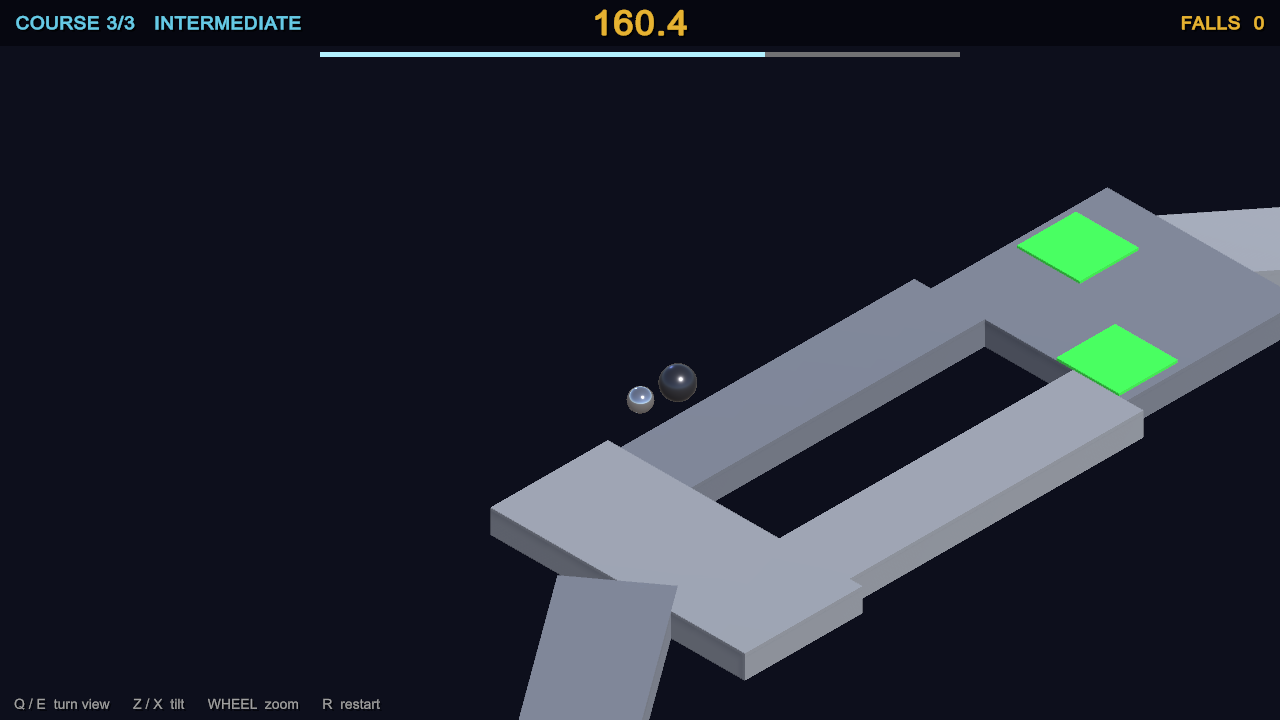
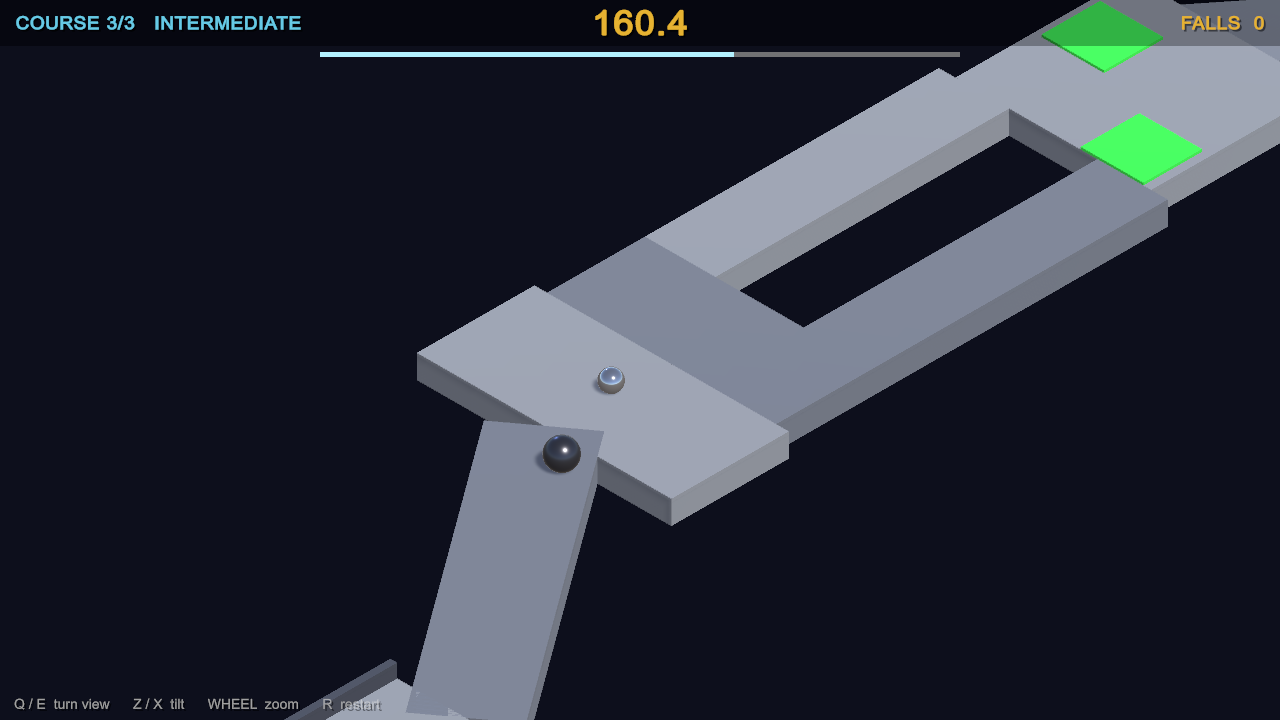
Fix respawn stranding the player over a pit at course splits
A fresh clone failed `make verify` on course 2 with an unrecoverable respawn
loop, on a tree that had already passed the same check twice. Unity's physics is
not frame-rate deterministic, so the fault was marginal rather than absent.

Cause: Split() placed its "drift onto the left catwalk" waypoint relative to the
split's own centre, assuming the preceding deck reached that far across. Where
the approach is a diagonal Jog still moving sideways it does not - on course 2
the waypoint sat 1.5m past the edge, over nothing. Respawn follows the
centreline, so falling there put the marble back into the void.

Two fixes:

- Split() now lays a solid apron ahead of the pit, so the sideways move onto a
  catwalk is over deck by construction rather than by luck.
- LevelBuilder no longer trusts the centreline: it tests every densified
  waypoint against the block geometry and records whether deck exists beneath
  it. Respawn uses supported waypoints only, so waypoints spanning a Jump() gap
  stay available for steering without becoming respawn points.

Verified 4/4 consecutive passes, 1-2 falls per run (previously 2-4).
Docs and screenshots updated for the new split geometry.

diff --git a/Assets/Scripts/LevelBuilder.cs b/Assets/Scripts/LevelBuilder.cs
@@ -12,6 +12,8 @@ namespace RollingSteel
         public float KillY;
         public readonly List<EnemyBall> Enemies = new List<EnemyBall>();
         public readonly List<Vector3> PathWorld = new List<Vector3>();
+        /// Parallel to PathWorld: is there solid deck under this point?
+        public readonly List<bool> PathSupported = new List<bool>();
     }
 
     public static class LevelBuilder
@@ -75,6 +77,7 @@ namespace RollingSteel
             // Densify the centreline: with only segment endpoints, anything
             // following it cuts corners and clips the edge of narrow decks.
             var pts = lvl.Path;
+            var dense = new List<Vector3>();
             for (int i = 0; i < pts.Count; i++)
             {
                 if (i > 0)
@@ -82,10 +85,16 @@ namespace RollingSteel
                     Vector3 a = pts[i - 1], b = pts[i];
                     int steps = Mathf.Max(1, Mathf.CeilToInt(Vector3.Distance(a, b) / 2f));
                     for (int k = 1; k < steps; k++)
-                        built.PathWorld.Add(root.transform.TransformPoint(
-                            Vector3.Lerp(a, b, (float)k / steps) + Vector3.up * 0.5f));
+                        dense.Add(Vector3.Lerp(a, b, (float)k / steps));
                 }
-                built.PathWorld.Add(root.transform.TransformPoint(pts[i] + Vector3.up * 0.5f));
+                dense.Add(pts[i]);
+            }
+
+            foreach (var p in dense)
+            {
+                Vector3 lifted = p + Vector3.up * 0.5f;
+                built.PathWorld.Add(root.transform.TransformPoint(lifted));
+                built.PathSupported.Add(HasDeckUnder(lvl, lifted));
             }
 
             built.SpawnWorld = root.transform.TransformPoint(lvl.Spawn);
@@ -93,6 +102,26 @@ namespace RollingSteel
             built.GoalZ = goalZ;
             built.KillY = lowest - 14f;
             return built;
+        }
+
+        /// Is there solid deck directly under this centreline point? Waypoints
+        /// spanning a jump gap legitimately are not, which is why respawn only
+        /// ever uses supported ones - landing a respawn in mid-air over the thing
+        /// that just killed you is an unwinnable loop.
+        static bool HasDeckUnder(Level lvl, Vector3 p)
+        {
+            foreach (var b in lvl.Blocks)
+            {
+                if (b.Surface == Surface.Acid || b.Surface == Surface.Rail) continue;
+
+                Vector3 local = Quaternion.Inverse(b.Rot) * (p - b.Center);
+                if (Mathf.Abs(local.x) > b.Size.x * 0.5f) continue;
+                if (Mathf.Abs(local.z) > b.Size.z * 0.5f) continue;
+
+                float top = b.Size.y * 0.5f;
+                if (local.y > top - 0.4f && local.y < top + 1.8f) return true;
+            }
+            return false;
         }
 
         static void AddGoalTrigger(Transform root, Block deck)

diff --git a/Assets/Scripts/Course.cs b/Assets/Scripts/Course.cs
@@ -154,25 +154,32 @@ namespace RollingSteel
         }
 
         /// Two parallel decks with a pit down the middle.
-        public CourseBuilder Split(float len, float sideWidth, float gapWidth)
+        ///
+        /// Lays a solid apron first. The route has to move sideways onto one of
+        /// the catwalks, and that move has to happen over deck. If the preceding
+        /// segment is a diagonal jog it may not reach that far across, which puts
+        /// the centreline - and therefore respawns - out over the void.
+        public CourseBuilder Split(float len, float sideWidth, float gapWidth, float apron = 5f)
         {
+            float full = gapWidth + 2f * sideWidth;
+            Pad(apron, full);
+
             float off = (gapWidth + sideWidth) * 0.5f;
             Vector3 a = cur, b = cur + new Vector3(0f, 0f, len);
             Slab(a + Vector3.left * off, b + Vector3.left * off, sideWidth, Surface.Normal);
             Slab(a + Vector3.right * off, b + Vector3.right * off, sideWidth, Surface.Normal);
 
             cur = b;
-            width = gapWidth + 2f * sideWidth;
-            lastA = a; lastB = b; lastW = width; lastRot = Quaternion.identity;
-            // Commit to the left deck *before* the pit opens up - stepping sideways
-            // at the split entry gives the marble no room to drift across.
-            // Drop the previous segment's centre point first: it sits at the split
-            // entry, which is directly over the pit.
+            width = full;
+            lastA = a; lastB = b; lastW = full; lastRot = Quaternion.identity;
+
+            // The apron's own centre point sits at the pit mouth. Replace it with a
+            // drift across the apron, then a run down the left catwalk.
             int last = Level.Path.Count - 1;
             if (last >= 0 && Mathf.Abs(Level.Path[last].z - a.z) < 0.001f)
                 Level.Path.RemoveAt(last);
 
-            InsertPath(new Vector3(a.x - off, a.y, a.z - 4.5f));
+            InsertPath(new Vector3(a.x - off, a.y, a.z - apron * 0.55f));
             InsertPath(a + Vector3.left * off);
             InsertPath(b + Vector3.left * off);
             return this;

diff --git a/Assets/Scripts/GameDirector.cs b/Assets/Scripts/GameDirector.cs
@@ -371,15 +371,21 @@ namespace RollingSteel
             if (path == null || path.Count == 0) return built?.SpawnWorld ?? Vector3.zero;
 
             Vector3 anchor = Marble.LastGrounded;
-            int best = 0;
+            int best = -1;
             float bestD = float.MaxValue;
             for (int i = 0; i < path.Count; i++)
             {
+                if (!built.PathSupported[i]) continue;   // never respawn out over a gap
                 float d = (path[i] - anchor).sqrMagnitude;
                 if (d < bestD) { bestD = d; best = i; }
             }
+            if (best < 0) return built.SpawnWorld;
 
-            return path[Mathf.Max(0, best - 1)] + Vector3.up * 0.4f;
+            // step back one supported waypoint so there is a little run-up
+            for (int i = best - 1; i >= 0; i--)
+                if (built.PathSupported[i]) { best = i; break; }
+
+            return path[best] + Vector3.up * 0.4f;
         }
 
         public void ReachGoal()

diff --git a/docs/VERIFICATION.md b/docs/VERIFICATION.md
@@ -23,6 +23,15 @@ PASS - all three courses cleared
 
 It exits non-zero if the run never reaches `Won`, so it works as a CI gate.
 
+**Run it more than once.** Unity's physics is not frame-rate deterministic, so a
+marginal course can pass one run and fail the next. A bug that only showed up on
+a fresh clone (below) had already passed twice on an identical tree. Treat a
+single green run as weak evidence; four in a row is reasonable.
+
+```bash
+for i in 1 2 3 4; do make verify || break; done
+```
+
 ## Player flags
 
 | Flag | Effect |
@@ -83,7 +92,7 @@ points straight at the offending metre of level geometry.
 
 ## What this actually caught
 
-Four real bugs, none of which produced a compile error or a visual glitch:
+Five real bugs, none of which produced a compile error or a visual glitch:
 
 **1. Two unjumpable gaps.** Both course 2 and course 3 opened a gap straight off
 a downhill ramp. The marble left the lip already moving downward and fell short
@@ -102,13 +111,34 @@ killed it*, so it dies again, respawns identically, and burns the whole clock at
 one spot. The giveaway was deaths alternating between two fixed coordinates.
 Respawn now snaps to the recorded course centreline, which is always solid deck.
 
-**4. A split entry with nowhere to go.** The route stepped sideways onto a
+**4. A centreline waypoint over the void.** `Split()` placed its "drift onto the
+left catwalk" waypoint relative to the split's own centre, assuming the preceding
+deck reached that far across. Where the approach was a diagonal `Jog` still moving
+sideways, it did not — the waypoint sat 1.5 m off the edge, over nothing. Because
+respawn uses the centreline, a fall there respawned the player *into the void*,
+which is unrecoverable.
+
+This one is worth dwelling on: it passed `make verify` twice on the exact tree
+that later failed, and was only caught when the repo was cloned fresh and
+verified again. The flakiness was the tell.
+
+Two fixes went in. `Split()` now lays a solid apron before the pit so the
+sideways move is always over deck; and `LevelBuilder` no longer *trusts* the
+centreline at all — it tests every densified waypoint against the block geometry
+and records whether there is deck beneath it. Respawn only uses supported
+waypoints, so waypoints spanning a `Jump()` gap remain available for steering
+without ever becoming a respawn point.
+
+**5. A split entry with nowhere to go.** The route stepped sideways onto a
 2.2-wide catwalk at the exact z the pit opened, leaving no distance to drift
 across. Two causes: the approach deck was narrower than the catwalks it fed, and
 the previous segment's centre waypoint sat directly over the pit mouth.
 
-The pattern across all four: none of them are visible in a screenshot, and all
-four were found by reading coordinates out of a log.
+The pattern across all five: none of them are visible in a screenshot, and all
+five were found by reading coordinates out of a log. Three of the five were
+respawn-related, which makes sense — respawn is the one system that moves the
+player somewhere they did not drive to, so it is the one place a bad assumption
+about the geometry goes unnoticed until it strands someone.
 
 ## Limits
 

diff --git a/docs/COURSE-DESIGN.md b/docs/COURSE-DESIGN.md
@@ -32,7 +32,7 @@ return b.Done();
 | `Slope(len, drop, width)` | descending ramp |
 | `Jog(dx, depth, width)` | diagonal shuffle sideways while advancing |
 | `Ice(len, width)` / `Rough(len, width)` | low-friction / high-friction deck |
-| `Split(len, sideWidth, gapWidth)` | two parallel decks either side of a pit |
+| `Split(len, sideWidth, gapWidth, apron)` | a solid apron, then two parallel decks either side of a pit |
 | `Gap(len)` | advance without laying deck |
 | `Step(dy)` | sheer drop with no connecting geometry |
 | `Jump(gapLen, drop, lip)` | a flat lip, then a gap, then a step down |
@@ -101,8 +101,18 @@ are handled inside the builder:
 
 - `Acid()` splices in a detour down whichever side of the deck has more room,
   because the patch is deliberately laid *on* the route;
-- `Split()` commits to the left deck 4.5 units *before* the pit opens, and drops
-  the previous segment's centre point — which sits directly over the pit mouth.
+- `Split()` lays a solid **apron** before the pit and drifts onto the left catwalk
+  across it. The apron exists precisely so that sideways move happens over deck.
+  Without it, the drift waypoint is placed relative to the split's centre, which
+  the preceding segment may not reach — if that segment is a diagonal `Jog` still
+  moving laterally, the waypoint lands over the void.
+
+**The rule: every waypoint that a player can respawn onto must have deck under it.**
+`LevelBuilder` enforces this rather than trusting it — it tests each densified
+waypoint against the block geometry and records the answer in
+`BuiltLevel.PathSupported`. Respawn only ever uses supported waypoints, so a
+waypoint spanning a `Jump()` gap can stay on the route for steering without ever
+becoming a respawn point.
 
 If you add a hazard type that blocks the route, give it the same treatment or
 respawning will drop the player onto it.

diff --git a/docs/ARCHITECTURE.md b/docs/ARCHITECTURE.md
@@ -47,7 +47,8 @@ GameDirector.Awake
         └─ LevelBuilder.Build(CourseLibrary.All()[0])
               ├─ a GameObject per Block (primitive cube, scaled + rotated)
               ├─ enemies as spheres with EnemyBall
-              └─ the course centreline, densified, in world space
+              ├─ the course centreline, densified, in world space
+              └─ a per-waypoint "is there deck under this?" flag, used by respawn
 ```
 
 Each frame `GameDirector.Update` ticks the clock, runs the state machine
